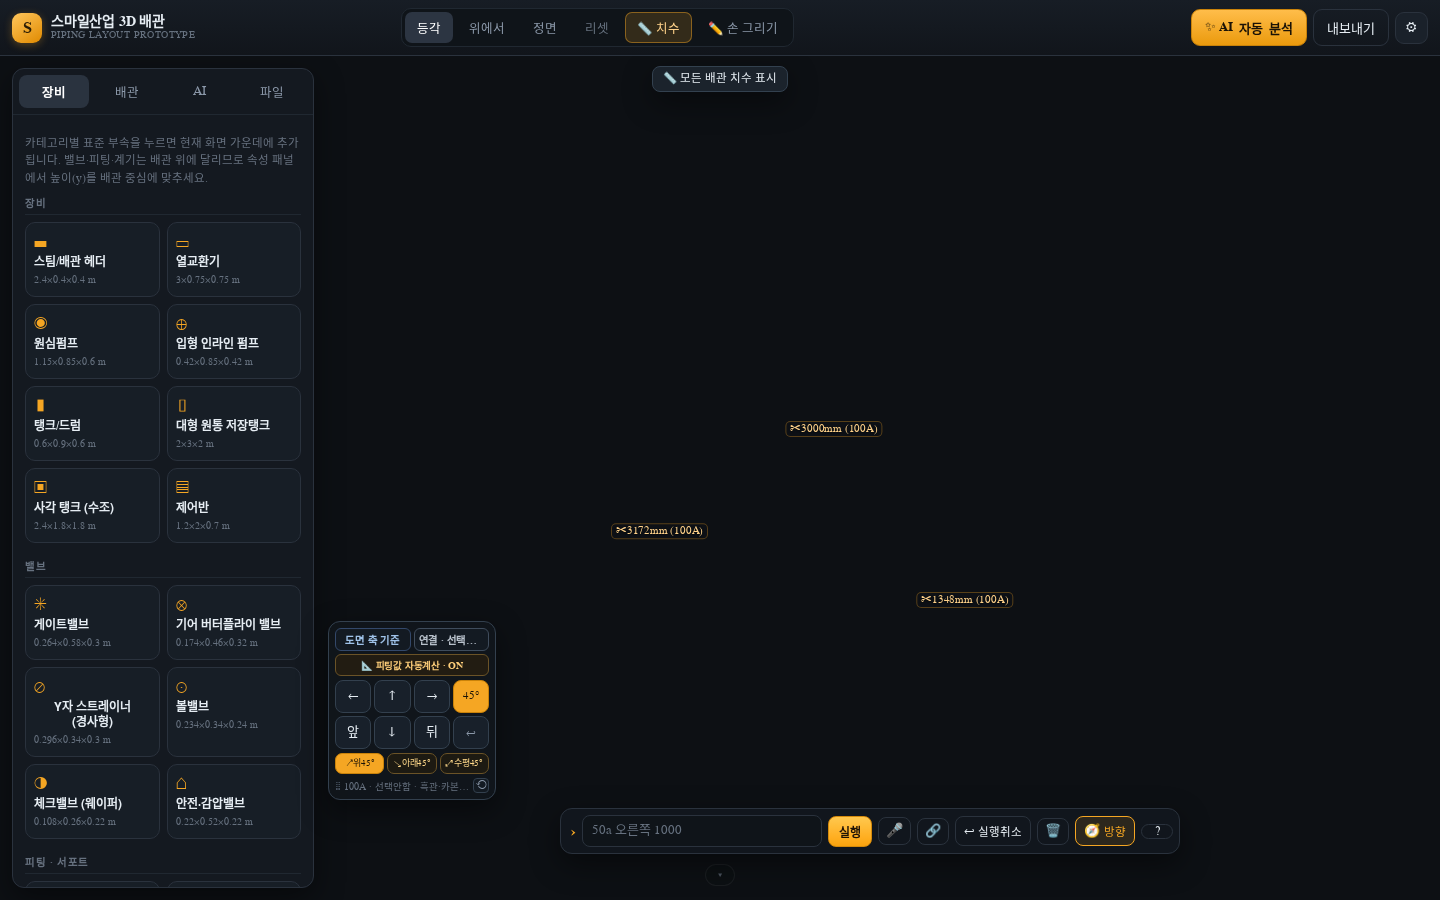
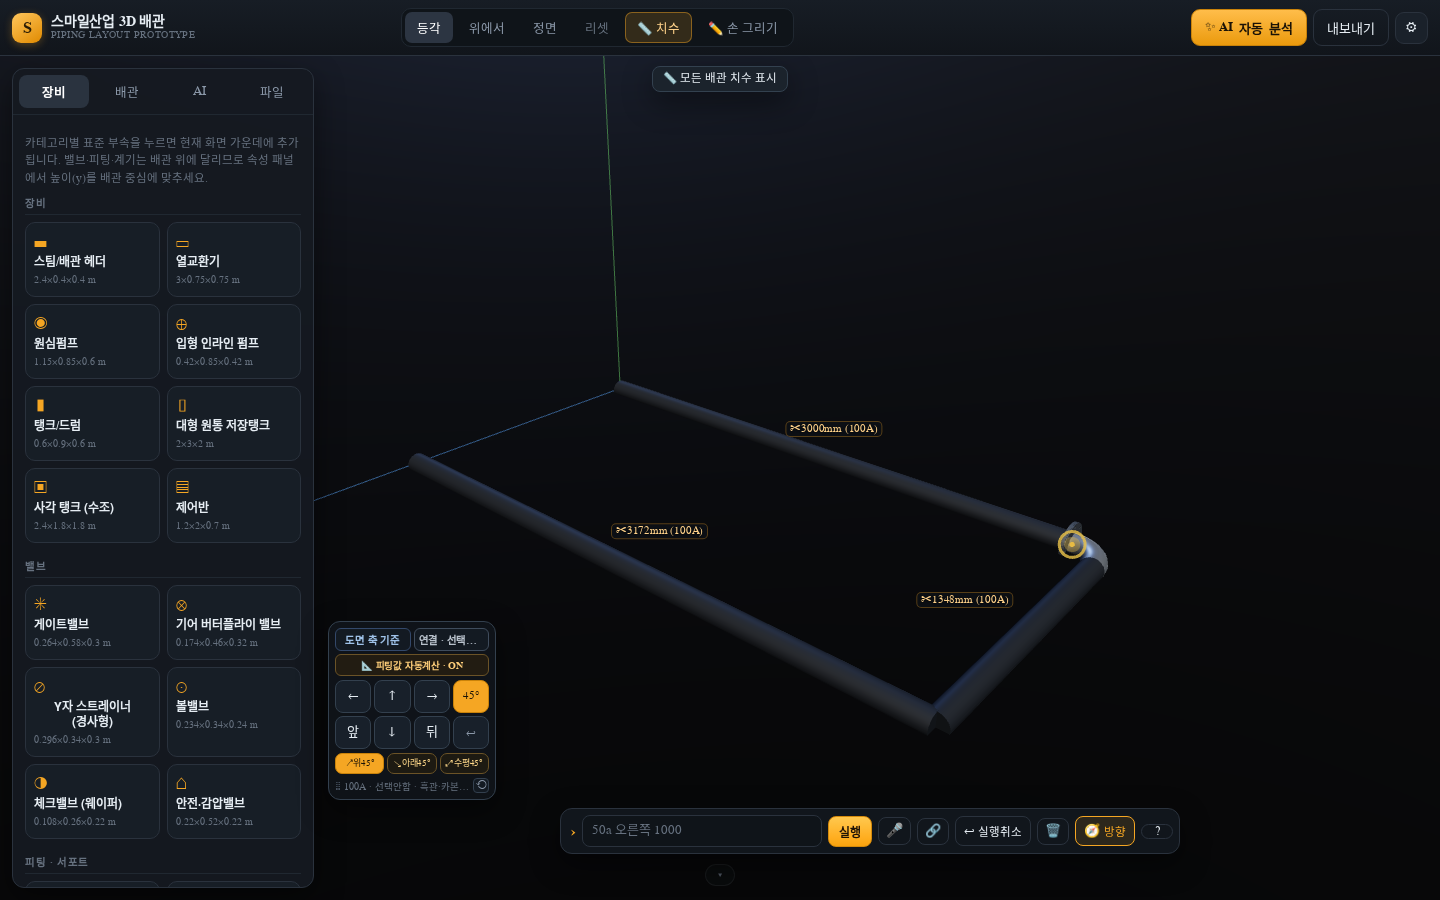
v85: 바닥(0m) 아래로 내려가는 45° 아래는 그리지 않고 안내 · 검증 52항목

diff --git a/js/main.js b/js/main.js
@@ -7336,6 +7336,12 @@ class App {
     this.padLen = Math.round(m * 1000);
     // 45° 껏는데 diag·diagxz가 남아 있으면 90° 직각으로 꺾는다 — 어떤 경우에도 대각선을 그리지 않는다.
     const kind = (sel.op === 'diag' || sel.op === 'diagxz') && !this.diag45 ? 'seg' : sel.op;
+    // 바닥(0m)보다 아래로 내려가는 '45° 아래'는 그리지 않고 알려 준다 — 그리면 바닥에 눌려 각도가 깨진다.
+    if (kind === 'diag' && (sel.vert || 1) < 0
+      && this.cmdCursor.y - Math.SQRT1_2 * m < -1e-6) {
+      this.toast('바닥(0m)보다 아래로는 내려갈 수 없습니다 — 커서를 위로 띄우거나 45° 위·수평을 쓰세요.', { type: 'err' });
+      return null;
+    }
     let op;
     if (kind === 'diag') {
       op = { op: 'diag', axis: sel.axis, sign: sel.sign, vert: sel.vert || 1, angle: sel.angle || 45, meters: m };

diff --git a/tools/verify-v85.py b/tools/verify-v85.py
@@ -480,6 +480,39 @@ def run_off(page):
           dy2 < 1e-6 and st2['diag45'] is False, json.dumps(p2, ensure_ascii=False))
 
 
+def run_down_floor(page):
+    """B2. 바닥 아래로 내려가는 45° 아래는 그리지 않고 알려 준다"""
+    page.evaluate(RESET, {'fit': False})
+    page.evaluate("""() => {
+      const a = window.__app;
+      a.setCmdCursor({x:0,y:0,z:0}, true);
+      a.setDiagMode('down');
+      a.pending = null;
+    }""")
+    page.wait_for_timeout(120)
+    page.click('#dirPad [data-dir="x:1"]')
+    page.wait_for_timeout(120)
+    page.fill('#cmdInput', '1000')
+    page.click('#cmdRun')
+    page.wait_for_timeout(300)
+    st = page.evaluate(STATE)
+    toast = page.evaluate("() => { const t = document.querySelector('#toastHost .toast'); return t ? t.textContent : ''; }")
+    check('B. 바닥(y=0)에서 45° 아래는 그리지 않고 「바닥보다 아래로는 내려갈 수 없습니다」로 알려 준다',
+          len(st['pipes']) == 0 and '아래로는' in toast,
+          json.dumps({'pipes': len(st['pipes']), 'toast': toast[:50]}, ensure_ascii=False))
+    page.evaluate("""() => { window.__app.setCmdCursor({x:0,y:1,z:0}, true); }""")
+    page.wait_for_timeout(100)
+    page.fill('#cmdInput', '1000')
+    page.click('#cmdRun')
+    page.wait_for_timeout(300)
+    st2 = page.evaluate(STATE)
+    pts = st2['pipes'][-1]['points'] if st2['pipes'] else []
+    d = {k: round(pts[-1][k] - pts[0][k], 3) for k in 'xyz'} if pts else {}
+    check('B. 커서를 1m 위로 올리면 같은 45° 아래가 정상으로 그려진다 (dx 707 · dy −707)',
+          abs(d.get('x', 0) - 0.707) < 0.006 and abs(d.get('y', 0) + 0.707) < 0.006,
+          json.dumps(d, ensure_ascii=False))
+
+
 def run_dirs(page):
     """B. 위·아래·수평 45° 방향"""
     cases = [
@@ -715,6 +748,7 @@ def main():
             page = new_page(b, {'width': 1440, 'height': 900}, False, errs)
             on = run_pad_ui(page)
             run_off(page)
+            run_down_floor(page)
             run_dirs(page)
             run_link(page)
             run_port(page)

diff --git a/TODO.md b/TODO.md
@@ -6,7 +6,7 @@
   - **플랜지·노즐(포트) 진입** — `diag45PortPath()`가 포트 축으로 낸 스텁 + 엘보로 꺾어 들어간다. 45° 두 번(직관 → 45° → 대각선 → 45° → 스텁)을 먼저 시도하고, 포트 축으로 곧게 들어오는 경우는 들어오는 각도에 맞춰 45°/90° 엘보를 세우며, 각도가 어긋나면 예전 90° 직교 경로에 엘보를 세운다. 엘보 다리 끝면이 접합면에 정확히(63.5mm) 앉아 배관이 플랜지를 뚫지 않는다.
   - **키보드 1줄 바에 45° 상태 칩**(`#kbDiag45`) — 키보드가 올라오면 조이스틱이 숨는데, 그때도 `90° / 45°↑ / 45°↓ / 45°⤢`로 지금 상태가 보이고 누르면 90° → 위 45° → 아래 45° → 수평 45°로 돌아간다.
   - **명령 파서 점검**: `45도 오른쪽 1000` · `45도 아래 왼쪽 800` · `오프셋 500 오른쪽` · `45도 위 1000` 그대로. 45°가 켜져 있어도 `오른쪽 1000` 같은 일반 직각 명령은 대각선으로 꺾이지 않는다.
-- **검증**: `tools/verify-v85.py` — Playwright 실브라우저(데스크톱 1440×900 · 모바일 390×844) **50항목 전부 PASS**: 45° 해제 후 y 변화 0(직선 1,000mm) · 위/아래/수평 45° 일곱 방향(dx·dy·dz 707/707/0) · 내 시점 기준 일치 · 조이스틱 글자 전환 · 45° 링크(대각선 45° · elbow45 · 절단 1,437/2,057.7mm) · 45° OFF 링크(90° 4,500mm 한 배관) · 플랜지 포트 45° 진입(엘보 다리 63.5mm 밀착) · 파서 5종 · 45° OFF 방어 · v84 회귀(45° face 63.5/127 · 오프셋 707.1/580.1 · 플랜지 끝 100mm · 샘플 씬) · 키보드 1줄 바 45° 칩(상태·클릭 순환) · 모바일 넘침 0 · 콘솔 오류 0. 미리보기 `preview-v85-45link.png` · `preview-v85-pad.png`. 캐시 버스터 `?v=85`.
+- **검증**: `tools/verify-v85.py` — Playwright 실브라우저(데스크톱 1440×900 · 모바일 390×844) **52항목 전부 PASS**: 45° 해제 후 y 변화 0(직선 1,000mm) · 위/아래/수평 45° 일곱 방향(dx·dy·dz 707/707/0) · 내 시점 기준 일치 · 조이스틱 글자 전환 · 45° 링크(대각선 45° · elbow45 · 절단 1,437/2,057.7mm) · 45° OFF 링크(90° 4,500mm 한 배관) · 플랜지 포트 45° 진입(엘보 다리 63.5mm 밀착) · 파서 5종 · 45° OFF 방어 · v84 회귀(45° face 63.5/127 · 오프셋 707.1/580.1 · 플랜지 끝 100mm · 샘플 씬) · 바닥 아래 45° 아래는 그리지 않고 안내 · 키보드 1줄 바 45° 칩(상태·클릭 순환) · 모바일 넘침 0 · 콘솔 오류 0. 미리보기 `preview-v85-45link.png` · `preview-v85-pad.png`. 캐시 버스터 `?v=85`.
 
 ## 완료 — v84 (2026-11-28)
 - **📏 티·레듀샤 표준 규격 정정(ASME B16.9 / KS B 1522)**: 사용자 지적 *"350~600a 티 값이 규격이랑 달라"*.
